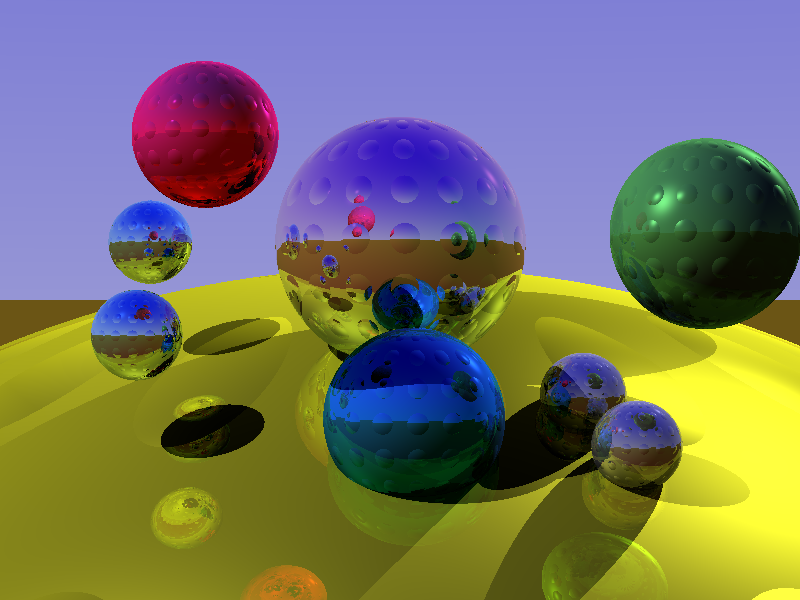
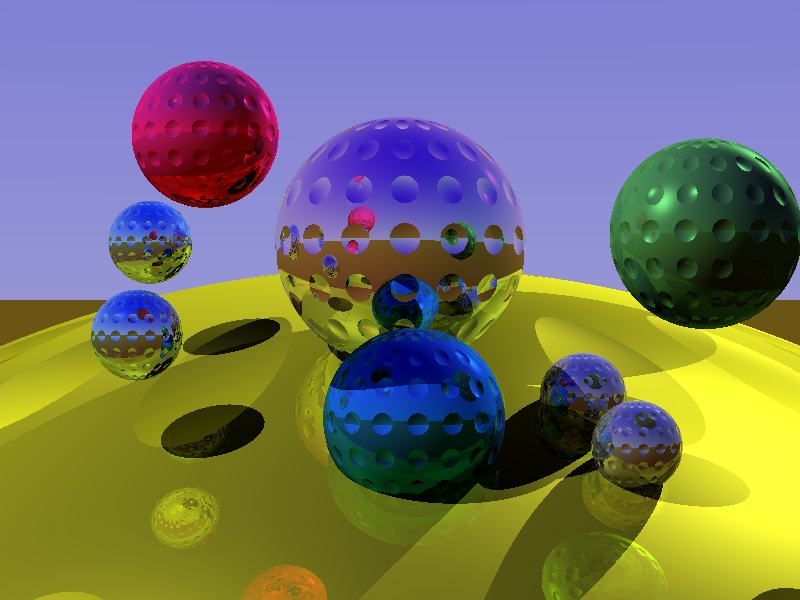
procedure creux

diff --git a/src/Sphere.java b/src/Sphere.java
@@ -116,15 +116,15 @@ public class Sphere
 
             // centre de la bosse
             double coslat = Math.cos(pois_lat);
-            float pois_x = (float)(coslat * Math.cos(pois_lon)) * 0.7f;
-            float pois_y = (float) Math.sin(pois_lat)           * 0.7f;
-            float pois_z = (float)(coslat * Math.sin(pois_lon)) * 0.7f;
+            float pois_x = (float)(coslat * Math.cos(pois_lon)) * 1.3f;
+            float pois_y = (float) Math.sin(pois_lat)           * 1.3f;
+            float pois_z = (float)(coslat * Math.sin(pois_lon)) * 1.3f;
 
             // nouvelle normale
             n = new Vecteur(
-                n.x - pois_x,
-                n.y - pois_y,
-                n.z - pois_z
+                pois_x - n.x,
+                pois_y - n.y,
+                pois_z - n.z
             );
             n.normaliser();
         }
